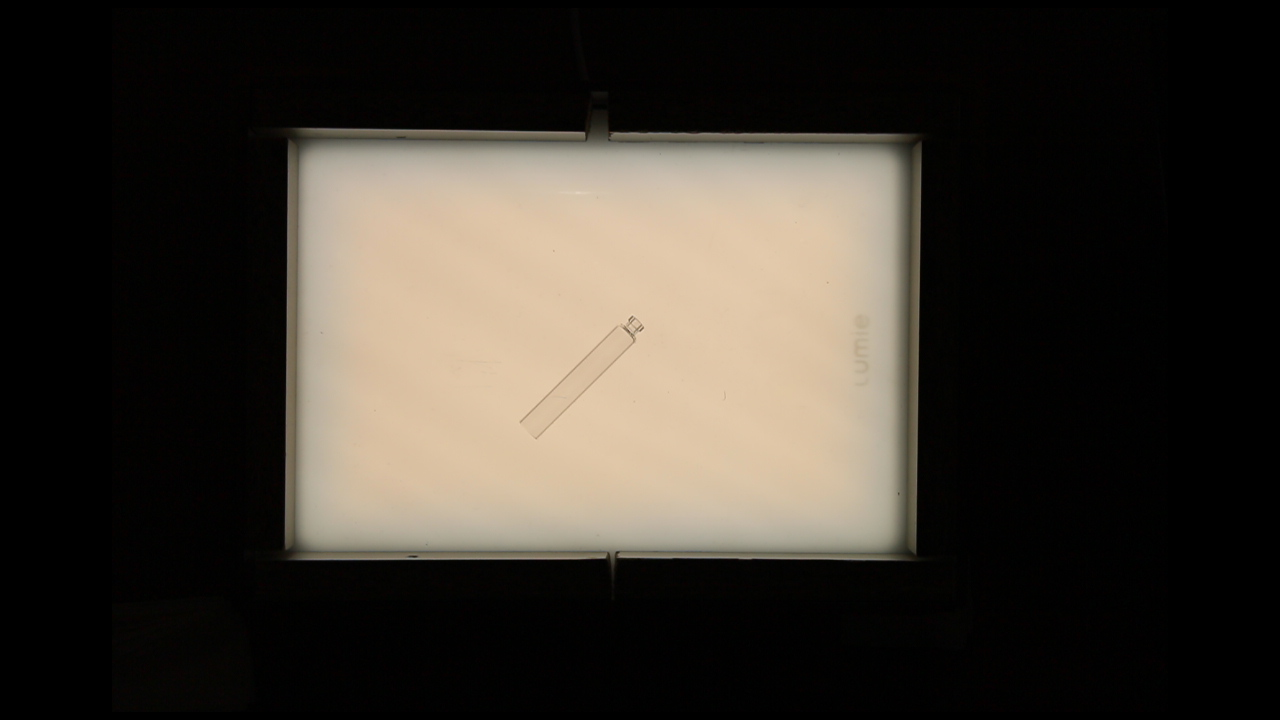
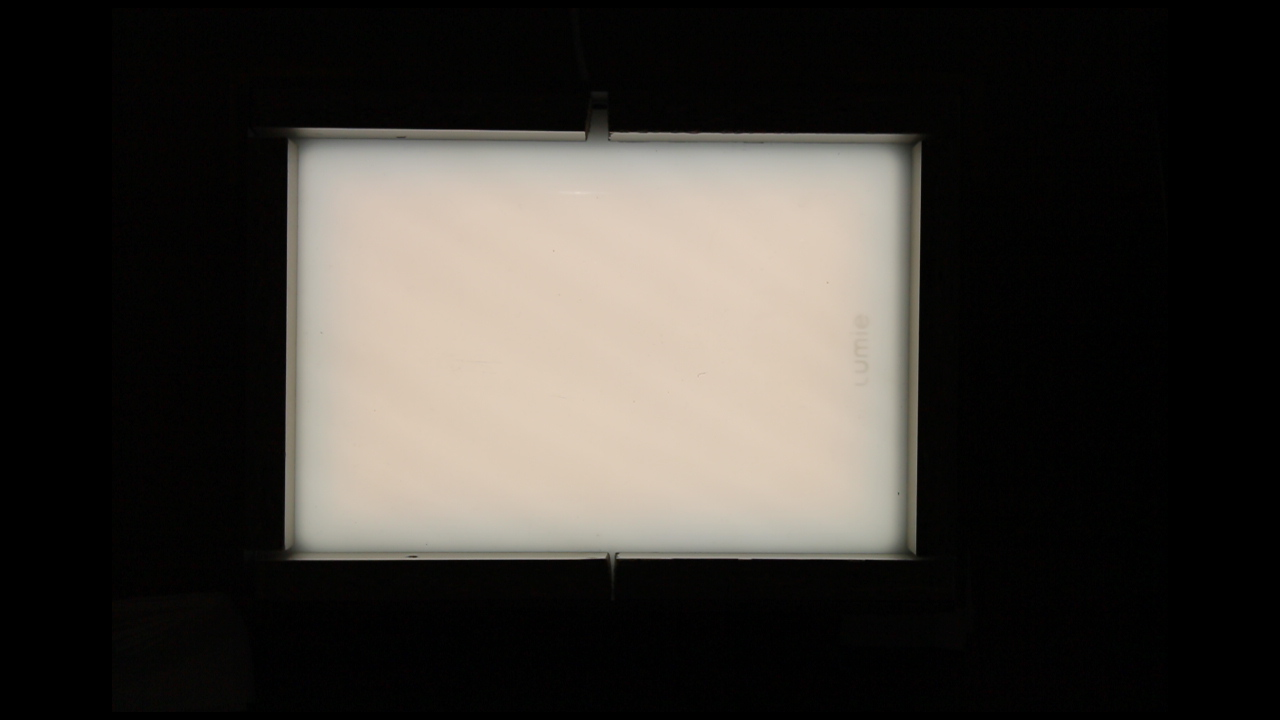
Slight fixing, comments on errors

diff --git a/GlassSegmentV1/GlassSegmentV1.py b/GlassSegmentV1/GlassSegmentV1.py
@@ -60,8 +60,12 @@ while True:
         cv2.namedWindow("Image")
         ret, img = cam.read()
         if not ret or img.shape != (720, 1280, 3):
-            #! Error on 2, 5
-            img = cv2.imread('./final_images/final_setup_6.png')
+            #! Error on 2 (Type: Tilted lines)
+            #! Error on 4 (Type: Only one line)
+            #! Error on 8 (Type: Only one line)
+            #! Error on 12 (Type: No/not enough lines(?))
+            #! Error on 13 (Type: Line merge index out of bounds)
+            img = cv2.imread('./final_images/final_setup_17.png')
             offlineFlag = True
             cam.release()
         print("Press key to start, ESC to exit")
@@ -108,9 +112,9 @@ while True:
             cv2.waitKey(5)
             edges_hough = ls.HoughLinesSearch(img_binary)
             statemsg = False
-            if edges_hough.size > 0:
+            if edges_hough is not None and edges_hough.size > 0:
                 houghLocation = ls.LineExtend(img_binary, edges_hough)
-                houghLocation = ls.removeExtras(houghLocation) # Removes superfluous lines, TBD
+                #houghLocation = ls.removeExtras(houghLocation) # Removes superfluous lines, TBD
                 houghLocation = np.ndarray.flatten(houghLocation)
                 final, UpDown = ls.templatematch(img_binary, template, houghLocation)
                 if final is not None:
@@ -135,10 +139,10 @@ while True:
                         exitFunc()
                     if k%256 == 32:
                         state = "pickup"
-                else:
-                    print("Not enough lines found")
-                    print("#############################################")
-                    statemsg = False
+            else:
+                print("Not enough lines found")
+                print("#############################################")
+                statemsg = False
 
     if state == "pickup":
         print('Initiating pickup at (x,y) = (%.3f,%.3f) cm' % (x, y))

diff --git a/GlassSegmentV1/LineSearchLib.py b/GlassSegmentV1/LineSearchLib.py
@@ -226,7 +226,7 @@ def HoughLinesSearch(img, houghLength=40, houghDist=5):
     #Find HoughLines on the image. Default houghLengt = 40, houghDist=10
     linesP = cv2.HoughLinesP(img, 0.5, np.pi / 225, 50, None, houghLength, houghDist)
         
-    if len(linesP) < 0:
+    if linesP is None or len(linesP) < 0:
         linesP = cv2.HoughLinesP(img, 1, np.pi / 180, 50, None, 30, houghDist)
     else:
         pass
@@ -323,9 +323,6 @@ def grabberPoint(glassSides, UpDown, lineLength=20):
     # ! Format of sides:
     # * line-pair = |slope1 = a rad | x1start | y1start | x1end | y1end | hyp | slope2 = b rad | x2start | y2start | x2end | y2end | hyp |
     grabPoint=np.empty([6])
-    
-    BUGARRAY = np.array([[glassSides[0], glassSides[1], glassSides[2], glassSides[3], glassSides[4], glassSides[5]],
-                        [glassSides[6], glassSides[7], glassSides[8], glassSides[9], glassSides[10]]])
     grabPoint_tmp = np.empty([2])
     line_perp = np.empty([2])
     x1 = np.empty([2])

diff --git a/GlassSegmentV1/PreprocessingLib.py b/GlassSegmentV1/PreprocessingLib.py
@@ -23,10 +23,7 @@ def PrepImg(img):
     img_edges = img_as_ubyte(img_edges)
     img_binary = cv2.threshold(img_edges, 35, maxval = 255, type = cv2.THRESH_BINARY)
     img_binary = img_binary[1]
-    kernel = np.ones((3,3), np.uint8)
-    img_binary = cv2.morphologyEx(img_binary, cv2.MORPH_CLOSE, kernel)
-    #img_binary = cv2.morphologyEx(img_binary, cv2.MORPH_DILATE, kernel)
-    
+
     return img_binary
 
 # https://stackoverflow.com/questions/4993082/how-can-i-sharpen-an-image-in-opencv
